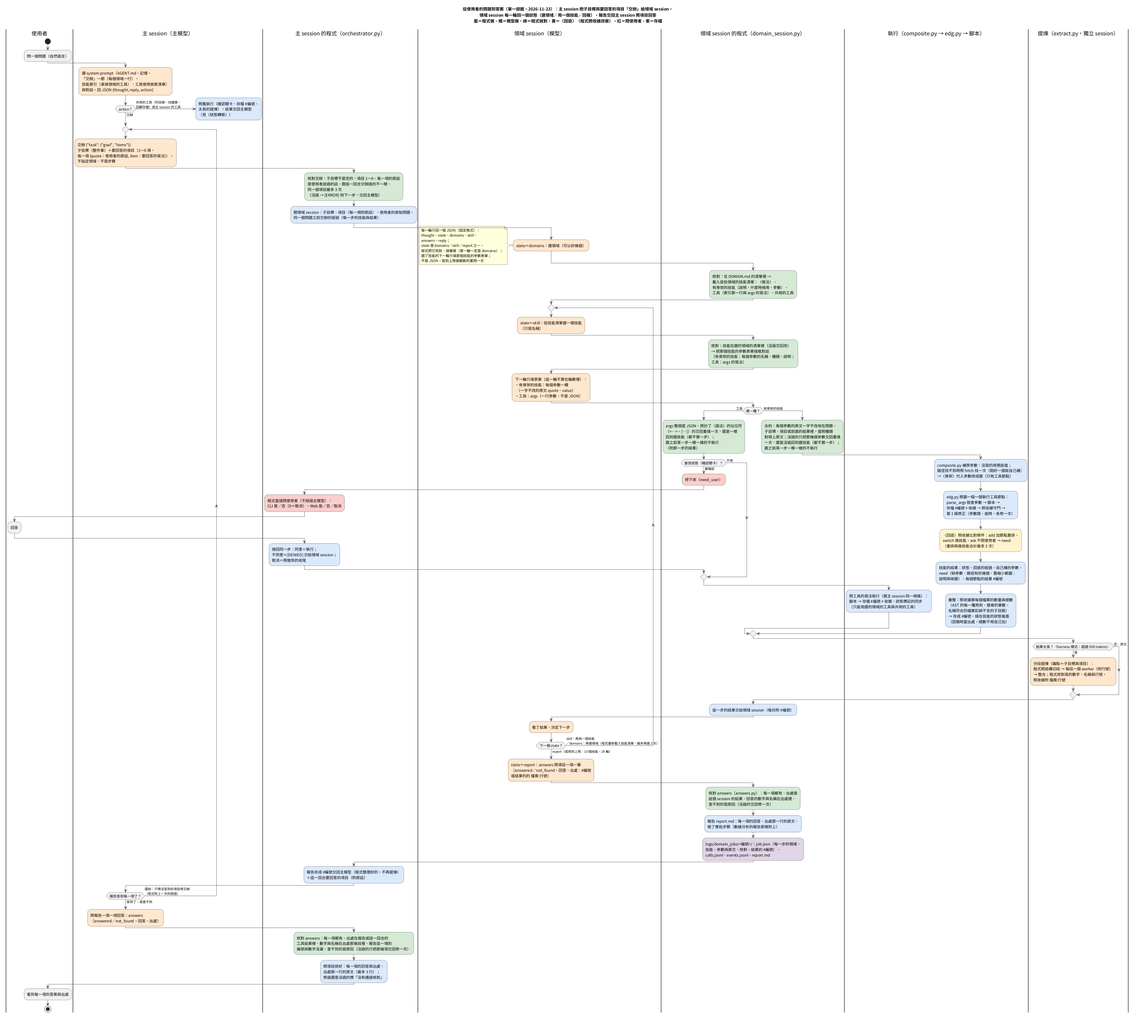
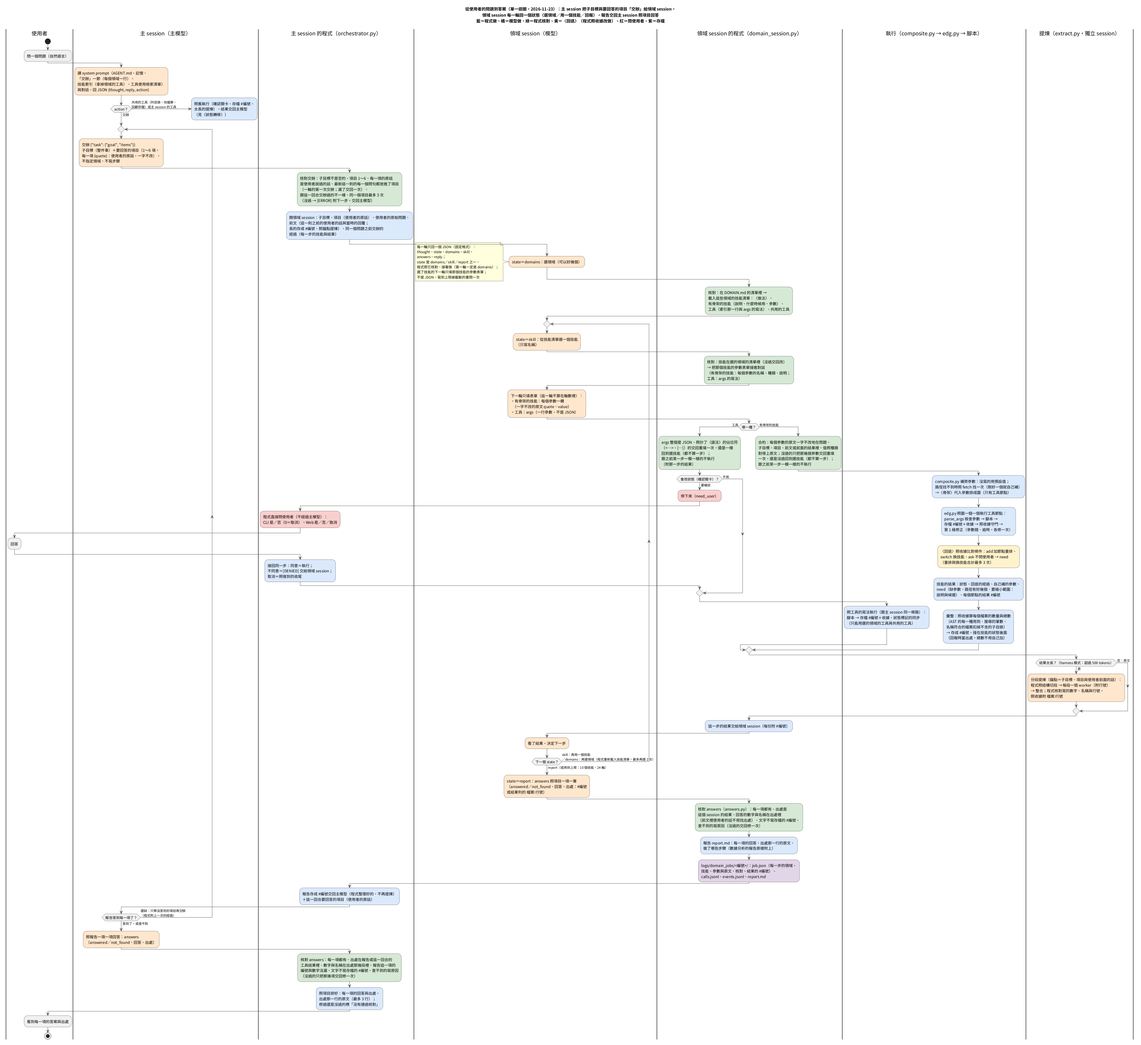
Add documentation updates for the 28th and 29th rounds of discussions, including user feedback and proposed changes regarding the handling of context in task assignments and the separation of declaration and definition in cpp_symbol. Update test results and clarify issues encountered during implemen

diff --git a/doc/架構說明.md b/doc/架構說明.md
@@ -36,7 +36,7 @@
 - **一次性獨立 session**：自己的 system／user prompt、不碰主對話、做完即丟（見第 7 節）；工具回傳的提煉是其中一種，長的輸出分給好幾個 worker 再整合。
 - **視覺 `vision/`**（Web 附圖）：框選螢幕或上傳的影像只存在這裡；送出新任務時交給視覺 session 做結構化提取（文字 → 畫面 → 個體 → 背景、線索、重點），主對話只收到以 `[vision result]` 併進那則使用者訊息的文字，分析同時存成 `#編號`、以〔附圖分析〕記進檢索清單，之後跟工具回傳一樣可以 `result_recall`（見 3.7）。`image_inspect` 技能對影像檔路徑呼叫同一個 `vision.analyze()`，結果照一般工具回傳處理。
 - **技能系統 `skills_system/`**：索引（`SKILLS.md`，常駐）→ 規格（`tools/<name>.md`，按需載入）→ 腳本（`scripts/<name>_cmd.py`，真正執行）。沒有「技能名稱 → 腳本」的對照表：模型必須先載入規格、讀到真實的腳本路徑才執行得了。領域在 `skills_system/<領域>/`（領域的說明、〈做法〉、有骨架的技能與工具的清單，領域 session 讀；第 16 節），領域的清單與主 session、領域 session 都直接用的共用的工具在 `skills_system/DOMAIN.md`（第 17 節）。
-- **交辦與領域 session**（`orchestrator.py`、`domain_session.py`、`skills_system/DOMAIN.md`）：找檔案、讀文件與 log、分析程式（`repo_analysis`），以及凍結的工具登記成的四個領域（容器與 ROS 2、調度系統、錄製的數據、音檔與影像檔）的事，主 session 在 `action` 填「交辦」——子目標與要回答的項目（每一項附使用者的原話，程式核對是使用者說過的話），不指定領域——程式核對之後交給**領域 session**：自己的對話，每一輪回一個 JSON，狀態是選領域（程式列出那些領域的技能清單）、用一個技能（只寫名稱，下一輪填程式給的參數表單；有骨架的技能由程式照骨架與回退執行，第 16 節；單步的工具跟主對話同一條路執行）或回報（每一項附出處、程式核對）三種之一；技能的結果太長照舊分段提煉；程式管上限、擋一模一樣的技能＋參數，全部存檔。報告存成 `#編號` 交回主 session，主 session 照報告一項一項回答（程式核對出處與數字、報告這一項的編號與數字沒有漏掉，照項目排給使用者，每一項附出處那一行的原文）；沒答到的可以只帶那幾項再交辦，程式把之前幾次的經過一起交下去；領域 session 碰到確認關卡時程式直接問使用者、接回同一步，不經過主 session。領域的工具與有骨架的技能不給主 session 直接用（第 17 節）。
+- **交辦與領域 session**（`orchestrator.py`、`domain_session.py`、`skills_system/DOMAIN.md`）：找檔案、讀文件與 log、分析程式（`repo_analysis`），以及凍結的工具登記成的四個領域（容器與 ROS 2、調度系統、錄製的數據、音檔與影像檔）的事，主 session 在 `action` 填「交辦」——子目標與要回答的項目（每一項是使用者的原話，程式核對是使用者說過的話、最新這一則的問句都放進了項目），不指定領域——程式核對之後連同這一則之前的對話（前文）交給**領域 session**：自己的對話，每一輪回一個 JSON，狀態是選領域（程式列出那些領域的技能清單）、用一個技能（只寫名稱，下一輪填程式給的參數表單；有骨架的技能由程式照骨架與回退執行，第 16 節；單步的工具跟主對話同一條路執行）或回報（每一項附出處、程式核對）三種之一；技能的結果太長照舊分段提煉；程式管上限、擋一模一樣的技能＋參數，全部存檔。報告存成 `#編號` 交回主 session，主 session 照報告一項一項回答（程式核對出處與數字、報告這一項的編號與數字沒有漏掉，照項目排給使用者，每一項附出處那一行的原文）；沒答到的可以只帶那幾項再交辦，程式把之前幾次的經過一起交下去；領域 session 碰到確認關卡時程式直接問使用者、接回同一步，不經過主 session。領域的工具與有骨架的技能不給主 session 直接用（第 17 節）。
 - **`logs/`**：每次工具回傳的原文存檔、工具使用檢索清單、操作軌跡、滾動摘要歸檔、每次模型呼叫的耗時、領域 session 與低階執行器的工作（見第 8 節）。
 - **執行前關卡**（`guard.py`）：會改變實體／外部狀態的技能（派工單、取消任務、建容器、容器內非唯讀指令），執行前一律由程式要求使用者確認，任何模式都一樣。
 - **數據分析**（`analysis_job.py`，`analysis_run` 偽技能，全部由程式做）：程式在容器裡量全部 Topic 的全部 Key（字串裡的 JSON 也展開），整理成有編號的事實（T#＝Topic、E#＝事件、L#＝Log；類別、時間線、時間上的對照）與重點，只做事實報告、不判斷原因；主對話依報告回答（見第 13 節）。
@@ -114,7 +114,7 @@
 | 檔案的行號 | `_results_common.file_lines`、`ToolSummaryMixin._file_lines`、`Extraction._at` | 照存檔的收據把原文的每一行對到檔案（view_file、search_text 每一行的 `N→` 是檔案的行號，提煉再加一層存檔的行號，模型會搞混）：收據只有一個檔案就是它，好幾個就是上面最近一行寫到的那一個（長的路徑先比）；只認收據裡的絕對路徑（result_grep 記的是存檔編號）。交給整合與交給主對話的事實都附「行 149＝<檔案>:49」（〈設計筆記〉2.56） |
 | 存檔 | `JobStore`（`jobstore.py`） | `logs/extract_jobs/<編號>/`：`job.json`、`calls.jsonl`（每次呼叫的 prompt 與回覆）、`events.jsonl`（進度，開頭 📑） |
 | 驗證 | `_validate_related` | related_records 只留清單裡真的有的編號，最多 2 筆 |
-| 寫清單 | `_append_tool_use_index`、`tidy_hint` | 只有原始工具的結果才寫一行進 `tools_use_index.md`（`result_*` 這類衍生輸出不寫）；描述整句照存、**不截斷** |
+| 寫清單 | `_append_tool_use_index`、`tidy_hint` | 只有原始工具的結果才寫一行進 `tools_use_index.md`（`result_*` 與交辦的前文 `dispatch_context` 這類衍生的輸出不寫，`DERIVED_RESULT_SCRIPTS`）；描述整句照存、**不截斷** |
 | 排版 | `_render_tool_summary`、`_followup_guidance` | 回答／相關事實（附行號，對得到檔案的接著寫 `＝檔案:行號`）／錯誤／未涵蓋／還需要的舊存檔／之後可能想知道的，結尾附下一步建議；回答把存檔的行號寫成檔案的行號、修一次還是一樣的，標「程式核對：回答寫的「第 149 行」是存檔原文的行號，那一行在檔案裡是 …」 |
 
 下一步建議（`_followup_guidance`）依序判斷：
@@ -415,7 +415,7 @@ Ollama 只重用跟上一次請求相同的開頭，從第一個不同的 token 
 | `NUM_CTX` | 32768 | `AGENT_NUM_CTX` | 每次請求的 context 上限，所有 session 共用 |
 | `TOKEN_THRESHOLD`／`SOFT_TOKEN_THRESHOLD` | NUM_CTX×0.75／×0.60 | `AGENT_HARD_RATIO`／`AGENT_SOFT_RATIO` | 硬水位（呼叫前一定壓）／軟水位（回合結束後壓） |
 | `KEEP_RECENT_TOKENS` | NUM_CTX×0.15 | — | 壓縮時保留最新這麼多 token 的原文 |
-| `TOOL_RESULT_TOKEN_THRESHOLD` | 500 | — | 工具回傳超過就交給提煉 |
+| `TOOL_RESULT_TOKEN_THRESHOLD` | 500 | — | 工具回傳超過就交給提煉；交辦的前文超過也存成一份存檔、照錨點提煉（第 17 節） |
 | `TOOL_SUMMARY_DEFAULT` | 開 | `AGENT_TOOL_SUMMARY` | `/summarize` 的啟動值 |
 | `EXTRACT_CHUNK_CHARS` | 8000 | `AGENT_EXTRACT_CHUNK_CHARS` | 提煉每段最多幾個字（放得進一段的就是一段、一個 worker） |
 | `EXTRACT_MAX_CHUNKS` | 8 | `AGENT_EXTRACT_MAX_CHUNKS` | 一次提煉最多讀幾段（更長的依問題挑段落，沒讀的行號寫進未涵蓋） |
@@ -489,8 +489,8 @@ Ollama 只重用跟上一次請求相同的開頭，從第一個不同的 token 
 | 寫新技能的腳本與規格 | `doc/技能撰寫規範.md`（輸出的結構、[ERROR] 的下一步、不讀標準輸入、逾時、狀態標記放最後）；測試放 `evals/skills/<組>_test.py` |
 | 改低階執行器（圖的檢查、守門、第 1 級的核對、重排、存檔） | `agent_core/edg.py`（第 15 節）；修正的說法在 `prompts/edg/`；測試 `evals/edg/selftest.py`，真模型 `evals/edg/run.py` |
 | 改有骨架的技能的執行（合約的核對、補參數、排圖、回退、換技能、交回決定的事、結果） | `agent_core/composite.py`（第 16 節；合約 `verify_param`、`unmentioned`、`relative`、`own_quote`、範圍 `scope_param`、`scope_items`、`Runner.count`，照原文找要讀的那一份 `path_of`、`Runner.find`，執行 `Runner`：`_complete`、`_fetch`、`_after`、`_switch`、`_subdirs`、`_outputs`，彙整 `_totals`）；交給領域 session 的寫法在 `domain_session.py` 的 `_composite`、`_totals`；說法在 `prompts/domain/session.md` 的 `reject_*`、`need_*`、`composite_*`；測試 `evals/domain/selftest.py`，真模型 `evals/repo/run.py` |
-| 改交辦（核對、交回的文字、擋哪些工具與有骨架的技能、確認關卡的接回、依報告回答的核對與照項目排、再交辦時的經過） | `agent_core/orchestrator.py`（第 17 節；`run_task`、`_check_task`、`_previous`、`_task_finish`；擋在 `domain_gate`；接回在 `answer_domain`、`cancel_domain`；answers 的核對在 `_answer_problems`、`_cited`，每一項怎麼核對在 `answers.py` 的 `answer_problems`（領域 session 的回報也用），排版在 `domain_render`）；領域與共用的工具在 `skills_system/DOMAIN.md`；說法在 `prompts/harness/domain.md`（交回的 `report`、`answer_hint`、`ask_waiting`；擋 `tool_blocked`、`skill_blocked`；交辦沒過核對的 `err_*`；answers 的 `answers_fix`、`why_*`）與 `system_prompt.md` 的 `tasks`、`task_domain`；Web 的接回在 `web_app/flows.py`（`_await_domain`、`answer_domain_turn`）、`server.py`、`index.html`，CLI 在 `cli.py`；測試 `evals/domain/selftest.py`，真模型 `evals/repo/run.py`，`chat/`、`ops/` 看有沒有退步 |
-| 改領域 session（狀態與上限、選領域、技能清單、參數表單、合約、工具的執行、擋一樣的、回報的核對、報告） | `agent_core/domain_session.py`（第 17 節；`_loop`、`_domains`、`_skills_text`（工具的 args 寫法 `_tool_entries`、`_syntax`）、`_skill`、`_form_turn`、`_param_rows`、`_contract`（範圍 `_scope_hits`、`_count`；照原文找要讀的那一份 `_doc_of`、`_find`）、`_own_args`、`_args_problem`、`_same`、`_tool`、`_composite`、`_totals`、`_shown`、`_report_state`、`_problems`、`_report`、`_ask`、`_fit`）；schema 在 `schemas.domain_session_schema`（每一輪的決定）與 `domain_form_schema`（參數表單）；說法在 `prompts/domain/session.md`；上限在 `config.py` 的 `DOMAIN_*`；測試 `evals/domain/selftest.py`，真模型 `evals/repo/run.py` |
+| 改交辦（核對、前文、交回的文字、擋哪些工具與有骨架的技能、確認關卡的接回、依報告回答的核對與照項目排、再交辦時的經過） | `agent_core/orchestrator.py`（第 17 節；`run_task`、`_check_task`（問句都放進項目 `questions`、`_uncovered`）、`_earlier_turns`（前文）、`_previous`、`_task_finish`；擋在 `domain_gate`；接回在 `answer_domain`、`cancel_domain`；answers 的核對在 `_answer_problems`、`_cited`，每一項怎麼核對在 `answers.py` 的 `answer_problems`（領域 session 的回報也用），排版在 `domain_render`）；領域與共用的工具在 `skills_system/DOMAIN.md`；說法在 `prompts/harness/domain.md`（交回的 `report`、`answer_hint`、`ask_waiting`；擋 `tool_blocked`、`skill_blocked`；交辦沒過核對的 `err_*`；answers 的 `answers_fix`、`why_*`）與 `system_prompt.md` 的 `tasks`、`task_domain`；Web 的接回在 `web_app/flows.py`（`_await_domain`、`answer_domain_turn`）、`server.py`、`index.html`，CLI 在 `cli.py`；測試 `evals/domain/selftest.py`，真模型 `evals/repo/run.py`，`chat/`、`ops/` 看有沒有退步 |
+| 改領域 session（第一則訊息與前文、狀態與上限、選領域、技能清單、參數表單、合約、工具的執行、擋一樣的、回報的核對、報告） | `agent_core/domain_session.py`（第 17 節；`_loop`、`_domains`、`_skills_text`（工具的 args 寫法 `_tool_entries`、`_syntax`）、`_skill`、`_form_turn`、`_param_rows`、`_contract`（範圍 `_scope_hits`、`_count`；照原文找要讀的那一份 `_doc_of`、`_find`）、`_own_args`、`_args_problem`、`_same`、`_tool`、`_composite`、`_totals`、`_shown`、`_report_state`、`_problems`（前文裡使用者的話不用找出處，`_allowed`）、`_report`、`_ask`、`_fit`；前文 `_context`、提煉的錨點 `_anchor`）；schema 在 `schemas.domain_session_schema`（每一輪的決定）與 `domain_form_schema`（參數表單）；說法在 `prompts/domain/session.md`；上限在 `config.py` 的 `DOMAIN_*`；測試 `evals/domain/selftest.py`，真模型 `evals/repo/run.py` |
 | 新增或改有骨架的技能、領域 | `skills_system/<領域>/SKILLS.md` 一行＋`<領域>/<名稱>.md`（寫法：`doc/技能撰寫規範.md` 1.2：〈骨架〉只有工具節點、〈回退〉的加節點、換技能與交回決定；載入時 `composite.validate_skill`、`_switch_problems` 檢查，寫錯的整個領域不能用；`evals/domain/selftest.py` 跑 repo_analysis 的技能與回退） |
 | 改收據的欄位、錯誤的種類 | 共用層 `skills_system/scripts/_receipt_common.py`、各腳本的 `fail`／`result`、規格的 `receipt`（`evals/skills/receipt_test.py` 核對兩者一致）；harness 這一側在 `dispatch.py` 的 `_exec_script`、`archive.py`、`trajectory.py`（3.8） |
 | 改檢索清單的顯示或判斷規則 | `tool_use_index.py` 的 `_tool_use_index_block` |
@@ -527,7 +527,7 @@ Ollama 只重用跟上一次請求相同的開頭，從第一個不同的 token 
 | `extract/` 提煉 | —（在 `chat/extract_selftest.py`） | `run.py`（已知答案的長輸出：車隊、20 萬字 Log、recall） | 找到幾個、多列幾個、數量、切段 |
 | `repo/` 真實專案 | `selftest.py`（核對的規則、每一題答得出來、人看過的真實回覆維持判斷、`answers.json` 跟快照一致、碰不到真的容器；在 `phase_check` 的離線組） | `run.py`（amr_base 固定在 `6d91797a` 的快照，30 題：五種各 5＋保留組 1；借用 `ops/worker.py` 跑一題，確認關卡一律拒絕、Docker 與調度系統的位址指走；`--rescore` 用存下來的回覆重新計分） | 在真實專案裡找檔案與計數、讀長文件、Python 的定義與呼叫、C++、跨檔案的調查；答案由程式從快照算（`questions.py` → `answers.json`），最後的回覆由程式核對（`checks.py`）。在 `phase_check --model`：每個模型各跑 3 次（`--tag phase1～3`），每一題的通過率與主要組每一次的通過數跟基準 `repo.json` 比；`runs.jsonl` 另記每一次依報告回答的 answers、沒過核對的項目與交回修的次數 |
 | `edg/` 低階執行器 | `selftest.py`（寫好的圖、假的修正模型：檢查圖（只收工具節點）、照收據守門、帶入參數（去重、上限）、第 1 級的核對（多了引號、範圍放大、相近的路徑有好幾個不修、逾時照 narrow）、確認關卡停下來與接回、重排、存檔；14 項；在 `phase_check` 的離線組） | `run.py`（第 1 級修正：一個工具節點故意錯一個參數，工作目錄是真實專案評測的快照；9 題＋保留組 2 題；`--rescore`；在 `phase_check --model`，基準 `edg.json`） | 修得好的有沒有修好（收據的欄位與範圍由程式核對）、修不好的（要換工具、要使用者決定）有沒有往上交 |
-| `domain/` 交辦與領域 session | `selftest.py`（假的主模型與領域 session 的模型、真的有骨架的技能、低階執行器與工具（工作目錄是臨時的小專案），直接驅動 Web 的回合；23 項；在 `phase_check` 的離線組） | —（真模型看 `repo/run.py`；`chat/`、`ops/` 看有沒有退步） | 主 session 的「交辦」一節、技能索引拿掉領域的工具、回覆的 schema（沒有領域時沒有交辦）與解析；回覆的欄位順序（主 session 的 action 最後、AGENT.md 的範例與存回對話的 JSON 也一樣；領域 session 照說明的順序）；擋領域的工具與有骨架的技能（領域 session 裡只能用選的領域的工具與共用的工具）；交辦的核對（子目標是空的、項目數、一樣的再交一次、同一個項目最多 3 次）；領域 session 用工具（選領域、技能清單與 args 的寫法、args 開頭照抄的工具名稱拿掉、存檔 #編號、回報、報告交回、主 session 照項目回答）；評測的記法（`domain_calls`）；有骨架的技能（合約沒過交回改、不算一步，照骨架執行，一模一樣的不執行，回退換技能，路徑有好幾個交回決定，0 筆照實交回）；參數表單（選了技能的下一輪填：有骨架的技能每個參數一欄、工具只有 args；沒過的只把那幾個交回重填，重填還是沒過回到選技能；空的與預設值當成沒提到、沒抄原文的別的值退回，路徑的預設值配寫著別的名稱的 quote 交回、「..」的路徑交回；開頭抄了程式的標題的拿掉再核對；照 quote 沒過的拿值本身再核對（值在原文裡就收，編的檔名、翻譯、原文沒有的值照舊退回）；原文沒有的搜尋字，要搜的範圍裡有才收（出處寫範圍；範圍裡沒有的、自己選的檔名寫法照舊退回）；工作目錄底下的絕對路徑換成相對的；搜尋的字不分大小寫（骨架加 `--case` 的擋下）；表單那一輪不算在輪數裡；工具的 args 整個寫成 JSON、照抄了〈語法〉的佔位符、可以不寫的部分填成「[]」的交回重填一次，搜尋字裡的中括號、引號裡的「[]」不誤擋）；程式照收據算的彙整（AST 的定義、呼叫與 import 每個檔案幾處、總共幾處；名稱符合的檔案扣掉不含的子目錄；存成 #編號，回報的總數照它寫就過核對）；狀態與上限（還沒選領域、回覆不是 JSON、重選領域的上限、技能的上限）；確認關卡（停下來、Web 轉問、不同意交給它接著做）；長的結果照舊提煉（錨點是交辦的子目標）；再交辦帶著上一次的經過；交辦的原話（不是使用者說過的話擋下；第一則訊息、報告、回答提示、錨點附原話；追問時抄前一則訊息的也過）；主 session 依報告回答的核對與完整性（報告寫的編號與數字，回答漏了交回修） |
+| `domain/` 交辦與領域 session | `selftest.py`（假的主模型與領域 session 的模型、真的有骨架的技能、低階執行器與工具（工作目錄是臨時的小專案），直接驅動 Web 的回合，每一項從新的對話開始；28 項；在 `phase_check` 的離線組） | —（真模型看 `repo/run.py`；`chat/`、`ops/` 看有沒有退步） | 主 session 的「交辦」一節、技能索引拿掉領域的工具、回覆的 schema（沒有領域時沒有交辦）與解析；回覆的欄位順序（主 session 的 action 最後、AGENT.md 的範例與存回對話的 JSON 也一樣；領域 session 照說明的順序）；擋領域的工具與有骨架的技能（領域 session 裡只能用選的領域的工具與共用的工具）；交辦的核對（子目標是空的、項目數、一樣的再交一次、同一個項目最多 3 次）；領域 session 用工具（選領域、技能清單與 args 的寫法、args 開頭照抄的工具名稱拿掉、存檔 #編號、回報、報告交回、主 session 照項目回答）；評測的記法（`domain_calls`）；有骨架的技能（合約沒過交回改、不算一步，照骨架執行，一模一樣的不執行，回退換技能，路徑有好幾個交回決定，0 筆照實交回）；參數表單（選了技能的下一輪填：有骨架的技能每個參數一欄、工具只有 args；沒過的只把那幾個交回重填，重填還是沒過回到選技能；空的與預設值當成沒提到、沒抄原文的別的值退回，路徑的預設值配寫著別的名稱的 quote 交回、「..」的路徑交回；開頭抄了程式的標題的拿掉再核對；照 quote 沒過的拿值本身再核對（值在原文裡就收，編的檔名、翻譯、原文沒有的值照舊退回）；原文沒有的搜尋字，要搜的範圍裡有才收（出處寫範圍；範圍裡沒有的、自己選的檔名寫法照舊退回）；工作目錄底下的絕對路徑換成相對的；搜尋的字不分大小寫（骨架加 `--case` 的擋下）；表單那一輪不算在輪數裡；工具的 args 整個寫成 JSON、照抄了〈語法〉的佔位符、可以不寫的部分填成「[]」的交回重填一次，搜尋字裡的中括號、引號裡的「[]」不誤擋）；程式照收據算的彙整（AST 的定義、呼叫與 import 每個檔案幾處、總共幾處；名稱符合的檔案扣掉不含的子目錄；存成 #編號，回報的總數照它寫就過核對）；狀態與上限（還沒選領域、回覆不是 JSON、重選領域的上限、技能的上限）；確認關卡（停下來、Web 轉問、不同意交給它接著做）；長的結果照舊提煉（錨點是交辦的子目標）；再交辦帶著上一次的經過；交辦的原話（不是使用者說過的話擋下；第一則訊息、報告、回答提示、錨點附原話；追問時抄前一則訊息的也過）；主 session 依報告回答的核對與完整性（報告寫的編號與數字，回答漏了交回修）；回答的文字寫了存檔的 #編號交回修（回報與主 session 的回答）；問句都要放進項目（一輪的第一次交辦漏了交回一次，之後不核對）；交辦帶前文（短的照原文附、長的存檔照錨點提煉；前文裡使用者的話算可以抄的原文） |
 | `integrity/` 評測的完整性 | `selftest.py` | — | 模型會讀的文字（技能規格、SKILLS.md、prompts、程式回給模型的字）沒有評測世界的名稱（從評測的來源自動取）；`prompts/` 的範本跟程式對得上（用到的每一則都在、填的名稱都有、沒有沒人用的）；讀範本；沒人用的程式（定義了沒人用的函式、類別、常數，import 了沒用的）；文件與架構圖寫的程式名稱在程式裡找得到（`doc_refs`，例外列在 `DOC_ALLOWED`）；階段驗證的維運比對（只跑一部分時跟同一組情境比） |
 
 主對話的情境：外部世界（docker、ROS2、調度系統）用固定的假輸出，存檔工具、`modify_memory` 與本機檔案類技能真的執行；條件（`expect`）
@@ -917,21 +917,21 @@ session 決定）、`guard_in_skill`、`composite_*`（彙整 `composite_totals`
 
 ## 17. 交辦與領域 session（`agent_core/orchestrator.py`、`domain_session.py`、`skills_system/DOMAIN.md`）
 
-要用領域的技能的事，主 session 在回覆的 `action` 填「交辦」——子目標與要回答的項目（每一項附使用者的原話），不指定領域（F1）。程式核對之後交給領域 session：一個自己的
+要用領域的技能的事，主 session 在回覆的 `action` 填「交辦」——子目標與要回答的項目（每一項是使用者的原話），不指定領域（F1）。程式核對之後連同前文（這一則之前的對話）交給領域 session：一個自己的
 對話，每一輪回一個 JSON，狀態是「選領域／用一個技能／回報」三種之一，由程式核對、照它接著做（F4）；技能的結果太長照舊分段提煉，看了結果再決定
 下一步；回報的每一項附出處、程式核對（F6）。報告存成 `#編號` 交回主 session，主 session 照報告一項一項回答（程式核對，報告這一項的編號與數字不能漏；照項目排給使用者）；沒答到的
 可以只帶那幾項再交辦，程式把之前幾次的經過一起交下去。領域 session 碰到確認關卡時程式直接問使用者、接回同一步，不經過主模型。為什麼、取捨與實測在
-〈設計筆記〉2.56（原話與完整性：2.61）；決定在〈[框架討論紀錄](../docs/框架討論紀錄.md)〉F1～F6。
+〈設計筆記〉2.56（原話與完整性：2.61；項目就是原話：2.75；問句與前文：2.76）；決定在〈[框架討論紀錄](../docs/框架討論紀錄.md)〉F1～F6。
 
 ```
-主 session ──交辦 {"task": {"goal", "items": [{"quote", "item"}]}}（核對：run_task，原話是使用者說過的話）──▶ 領域 session（domain_session.py）
-  第一則訊息的每一項附原話（意思以原話為準）；每一輪一個 JSON，state 是三種之一（程式核對、照它接著做）：
+主 session ──交辦 {"task": {"goal", "items": [{"quote"}]}}（核對：run_task，原話是使用者說過的話、最新這一則的問句都放進項目）──▶ 領域 session（domain_session.py）
+  第一則訊息：子目標、項目（使用者的原話）、原始問題、前文（這一則之前的對話，長的存檔提煉）；每一輪一個 JSON，state 是三種之一（程式核對、照它接著做）：
   domains：選領域 → 程式列出那些領域的技能清單（做法、有骨架的技能與參數、工具與 args 的寫法、共用的工具）
   skill  ：選一個技能（只寫名稱）→ 下一輪填它的參數表單（domain_form_schema；不算輪數）
            → 有骨架的技能：合約核對（沒過的重填一次）→ composite.Runner（補參數、骨架、回退）→ edg.Executor（守門、第 1 級）
                            → 程式照收據算的彙整（存成 #編號）
              單步的工具：args 的寫法核對（沒過的重填一次）→ agent._run_tool_once（確認關卡、存檔 #編號、收據）
-           → 結果太長分段提煉（錨點是子目標與項目）→ 接進對話，再選技能、再選領域或回報
+           → 結果太長分段提煉（錨點是子目標、項目與使用者前面的話）→ 接進對話，再選技能、再選領域或回報
   report ：answers 每一項附出處 → 程式核對（沒過交回修一次）→ 程式整理的報告
 主 session ◀──報告（#編號，不提煉）＋要回答的項目（附原話）── 照項目填 answers → 程式核對（出處、數字、報告的編號與數字沒漏；沒過交回修一次）
           → 照項目排給使用者
@@ -948,7 +948,7 @@ session 決定）、`guard_in_skill`、`composite_*`（彙整 `composite_totals`
 
 **主 session 看到的**：
 - system prompt 的「交辦」一節（`domain_block`；`prompts/harness/system_prompt.md` 的 `tasks`、`task_domain`）：哪些事交辦、格式、goal 照使用者的原話
-  寫整件事（不寫步驟、工具與參數）、items 是要回報的（1～`DOMAIN_ITEMS_MAX` 項，每一項 quote 一字不改地抄使用者的話、item 寫要回答的寫法；要它做事的寫要回報的結果）、收到報告之後怎麼填 answers（報告寫的編號與數字照寫）、沒答到的
+  寫整件事（不寫步驟、工具與參數）、items 是要回報的（1～`DOMAIN_ITEMS_MAX` 項，每一項 quote 一字不改地抄使用者的原話裡、這一項在問的那一段，之前幾則訊息裡的也可以：原話就是要回報的項目，不改寫、不只挑一部分，一句問了好幾件事可以照原話分成幾段；「它」這種指代對到的名稱寫在 goal 裡）、收到報告之後怎麼填 answers（報告寫的編號與數字照寫）、沒答到的
   只帶那幾項再交辦（同一個項目最多 `DOMAIN_ITEM_TRIES` 次）、Available Skills 列的可以直接用（要寫進檔案的結果等報告回來再寫）、打招呼與答案已經在
   對話裡的直接回答，加上每個領域一行（領域做什麼與說明的第一行；標題拿掉開頭的識別名稱，`composite.domain_label`）。
 - 主 session 看到的字都不寫領域的識別名稱（主 session 不指定領域；看得到名稱時 e4b 會把它當技能叫，設計筆記 2.64）：除了「交辦」一節，擋下的說明
@@ -965,8 +965,8 @@ session 決定）、`guard_in_skill`、`composite_*`（彙整 `composite_totals`
 | 步驟 | 誰 | 做什麼 |
 |---|---|---|
 | 1 交辦 | 主模型 | `action` 填 `{"task": {"goal", "items"}}`（每一項 `{quote}`：使用者的原話） |
-| 2 核對 | 程式（`run_task`、`_check_task`） | 有領域、子目標不是空的、項目 1～`DOMAIN_ITEMS_MAX` 項、每一項的原話（去掉引號、空白正規化）在使用者說過的話裡（`_user_words`：這段對話裡使用者的每一則訊息與目前的任務；`err_quote`）、子目標與項目跟這一回合交辦過的不一樣（一樣的再交一次結果也一樣）、每一項這一回合交辦還不到 `DOMAIN_ITEM_TRIES` 次（照文字比，不看空白與大小寫；擋下來時附那幾次的子目標與結果）。沒過回 `[ERROR]`（附下一步），不執行 |
-| 3 領域 session | 程式與領域 session 的模型（`DomainSession.start`） | 記一筆交辦的紀錄（`_domain_turn["tasks"]`）；第一則訊息是子目標、項目（每一項附原話）、使用者的原始問題、這一回合之前交辦的經過（`_previous`）；之後一輪一輪做（下面），停在確認關卡或收尾 |
+| 2 核對 | 程式（`run_task`、`_check_task`） | 有領域、子目標不是空的、項目 1～`DOMAIN_ITEMS_MAX` 項、每一項的原話（去掉引號、空白正規化）在使用者說過的話裡（`_user_words`：這段對話裡使用者的每一則訊息與目前的任務；`err_quote`）、一輪的第一次交辦時最新這一則的每一個問句（`questions`：「？」，或後面是空白、結尾的「?」）都跟某一項的原話重疊（`_uncovered`；沒有的列出來交回一次 `err_cover`，交回過照收，之後的交辦不核對）、子目標與項目跟這一回合交辦過的不一樣（一樣的再交一次結果也一樣）、每一項這一回合交辦還不到 `DOMAIN_ITEM_TRIES` 次（照文字比，不看空白與大小寫；擋下來時附那幾次的子目標與結果）。沒過回 `[ERROR]`（附下一步），不執行 |
+| 3 領域 session | 程式與領域 session 的模型（`DomainSession.start`） | 記一筆交辦的紀錄（`_domain_turn["tasks"]`）；第一則訊息是子目標、項目（使用者的原話）、使用者的原始問題、前文（`_earlier_turns`：任務線上這一則之前的使用者的話，與各自那一回合最後的回覆）、這一回合之前交辦的經過（`_previous`）；之後一輪一輪做（下面），停在確認關卡或收尾 |
 | 4 確認關卡 | 程式 | 領域 session 要用會改狀態的工具：停下來（`need_user`），設 `domain_pending`（交回的文字是等回答的說明 `ask_waiting`）；CLI 印要確認的事、`input()`，Web 推 `domain_ask`（藍色卡片、是／否按鈕、取消）。回答由 `answer_domain` 交給 `resume`（「是」「好」「y」這類照做；其他回答不做，`[DENIED]` 交給領域 session 接著做），還有下一個確認關卡就再問；取消（CLI 輸入 0、Web 的取消、`/clear`）由 `cancel_domain` 照做到的收尾（`/clear` 只照實記下，`follow=False`） |
 | 5 交回 | 程式（`_task_finish`） | 報告存成 `#編號`（腳本欄 `domain_task`）；交回主模型的文字是 `DOMAIN_RESULT_HEAD` 開頭（不提煉）的交辦的報告（`report`：狀態與報告全文），後面接「這一回合要回答的項目」（使用者的原話）與 answers 的寫法（`answer_hint`）；記下領域 session 回報、核對過的項目與回答（`answered_items`，完整性的核對用）；領域 session 裡執行的數據分析的報告登記給 `analysis_reply_check`（`note_analysis_report`） |
 | 6 回答 | 主模型 | 照報告填 `answers`，`reply` 寫一句總結；報告沒答到的項目可以只帶那幾項再交辦（回到步驟 1；要不要再交辦是主模型決定，程式不自己再交） |
@@ -975,11 +975,13 @@ session 決定）、`guard_in_skill`、`composite_*`（彙整 `composite_totals`
 
 **領域 session**（`DomainSession`；說法在 `prompts/domain/session.md`）：
 - system prompt（`system`）：要做的事；每一輪只回一個 JSON（thought、state、domains、skill、answers、reply；用不到的寫空的；選了技能的下一輪填參數表單）與三種狀態
-  的寫法；怎麼做（只做子目標、回答項目——每一項的意思以附的原話為準，項目寫得比原話窄時照原話回答；原始問題只用來對照名稱、路徑、數值；先用最能直接回答的技能，不夠就照結果裡的名稱、檔案、行號換一個技能
+  的寫法；怎麼做（只做子目標、回答項目——每一項是從原始問題切出來的原話，意思照原始問題的前後文與前文讀：「它」這種指代、沒寫主詞的追問指的是前面說過的那個，前文只用來看指的是什麼、答案用這次查到的結果；子目標與原始問題也用來對照名稱、路徑、數值；先用最能直接回答的技能，不夠就照結果裡的名稱、檔案、行號換一個技能
   或參數；0 筆時想想是範圍、字還是技能不對；能回答每一項就回報；現在的狀態用技能重新查；使用者說只要查就只用查詢的技能）；〈領域〉每個一行
   （`domain_entry`：名稱、標題、說明）；長期記憶。
-- 第一則訊息（`first`）：【子目標】、【要回答的項目】（每一項是使用者的原話）、【使用者的原始問題】（主 session 的 `current_task`）、再交辦的加上【上一次的經過】（`previous`：
-  每一次用了哪些技能、結果、停下來的原因，程式從紀錄取）；最後一句要它先選領域。
+- 第一則訊息（`first`）：【子目標】、【要回答的項目】（每一項是使用者的原話）、【使用者的原始問題】（主 session 的 `current_task`；標明項目是從這一則切出來的、照它的前後文讀）、有前文時加上【前文】（`_context`：在 `TOOL_RESULT_TOKEN_THRESHOLD` 以內
+  照原文附，每一則寫使用者的話與當時的回覆（`context`、`context_turn`）；超過的存成一份存檔（腳本欄 `dispatch_context`，衍生的輸出、不寫進檢索清單）、照錨點
+  提煉，附提煉的結果與 `#編號`（`context_archived`））、再交辦的加上【上一次的經過】（`previous`：每一次用了哪些技能、結果、停下來的原因，程式從紀錄取）；
+  最後一句要它先選領域。前文的全文也算參數表單可以抄的原文（`sources`）。
 - 每一輪（`_loop`）：模型一次（`_ask`：`format=domain_session_schema(領域, 項目數)`，`DOMAIN_MODEL`（空＝主模型），`think=False`；最後一則接動態區
   `build_state_tail`）；選了技能的下一輪是那個技能的表單（`_form_turn`：`format=domain_form_schema(參數名稱)`）。不是 JSON、空的、或 state 不是
   三種之一：附上那一則與提醒（`retry`；表單是 `retry_form`）再問一次；寫到字串上限被截斷（thought、args、reply）：不執行，接提醒（`cut`）再問一次；
@@ -1007,13 +1009,13 @@ session 決定）、`guard_in_skill`、`composite_*`（彙整 `composite_totals`
      「[]」不算佔位符）。
      程式照技能名稱找腳本（`skill_spec.script`）直接執行，不用先載入規格：先過確認關卡（`guard_check`；要確認時 `_wait`），再走主對話的 `_run_tool_once`（`_tool`：存檔
      `#編號`、收據、狀態標記的同步；`agent._sub_allowed` 只放行選的領域的工具與共用的工具）。結果照主對話的路（`turn._content_for_context(sub=True)`）：
-     門檻內原文，太長的提煉，錨點是交辦的子目標與項目（項目是使用者的原話；`_anchor`），事實附 `檔案:行號`，下一步建議只寫它能用的 `result_grep`、`result_view`（3.1）。
+     門檻內原文，太長的提煉，錨點是交辦的子目標與項目（項目是使用者的原話；有前文時加上使用者前面的話 `anchor_earlier`；`_anchor`），事實附 `檔案:行號`，下一步建議只寫它能用的 `result_grep`、`result_view`（3.1）。
      提煉開不開照 `TOOL_SUMMARY_DEFAULT`（環境變數 `AGENT_TOOL_SUMMARY`），不跟 CLI／Web 的 `/summarize off`（那是主對話各自的開關）。
    - 跟之前某一步一模一樣的技能＋參數（有骨架的技能比參數、工具比 args）不執行，交給它那一步的結果（`_same`，`err_same`）。
    - 每一步的結果開頭標第幾步、技能與參數（`step_head`）與存檔的 `#編號`（`result_id`），以 `[tool result]` 接進對話，也接進合約的原文（`sources`）。
 3. **report（回報）**：answers 照項目一項一筆（空的擋下：`err_empty_report`）。程式核對（`_problems`，用 `answers.answer_problems`，跟主 session 依報告
    回答同一套）：每一項都有；答到的有出處，出處是這個 session 的存檔 `#編號`，或那些存檔的收據裡的 `檔案:行號`（`_cited`：那一行由程式從檔案讀，
-   `answers.rows_from_archives`）；回答裡的數字與名稱在出處的原文裡（內文寫的 `檔案:行號` 也照收據核對、清單的序號不核對）；查不到的寫了原因。沒過的
+   `answers.rows_from_archives`）；回答裡的數字與名稱在出處的原文裡（內文寫的 `檔案:行號` 也照收據核對、清單的序號不核對；問題、子目標、項目與前文裡使用者的話本來就有的字不核對，`_allowed`——當時的回覆不算）；答到的回答的文字沒寫存檔的 `#編號`（`why_archive_id`）；查不到的寫了原因。沒過的
    交回修一次（`answers_fix`，`nudged`），之後收尾（`done`），還是沒過的在報告裡標出來。
 
 **報告**（`_report`，`report.md`）：狀態、問題、子目標、要回答的項目（附使用者的原話）、第幾次交辦與之前的結果、選的領域與用了幾個技能、說明（停下來的原因）、總結；
@@ -1037,6 +1039,8 @@ session 決定）、`guard_in_skill`、`composite_*`（彙整 `composite_totals`
 - 報告這一項寫的編號（有英文字母、最後一段有數字的 ID）與數字（照 `extract.missing_tokens` 的規則：10 以下的整數、行號、`檔案:行號`、序號、問題與項目裡
   本來就有的不看），回答裡要有（`answers.dropped`；報告的這一項＝領域 session 回報、核對過的那一筆，`domain_session.answered_items`，同一個項目以最後
   一次交辦為準；`why_dropped`）；名稱先不核對。
+- 答到的回答的文字寫了存檔的 `#編號`（`_ARCHIVE_ID`；問題、項目、子目標裡本來就有的不算）：交回（`why_archive_id`：#編號是系統的存檔編號，只寫在 refs；
+  領域 session 的回報也一樣，框架討論紀錄第 27 輪）。
 - 回答的內文寫的 `檔案:行號` 跟出處一樣照收據核對（`answers._located`）：對到的從內文拿掉，那幾段與行號加進核對的原文；對不到的留著、照舊當成名稱
   核對。內文只認英數字的路徑（`_TEXT_CITE`：「定義在<檔案>:3」不會連前面的中文當成路徑）。
 - `reply` 裡寫的 `檔案:行號` 也要在報告或這一回合的工具結果裡（`why_lead_refs`）。
@@ -1059,14 +1063,14 @@ session 決定）、`guard_in_skill`、`composite_*`（彙整 `composite_totals`
 **存檔**：交辦的結果在 `logs/tool_results/`（腳本欄 `domain_task`），領域 session 的工作在 `logs/domain_jobs/`，低階在 `logs/edg_jobs/`（第 8 節）。
 **常數**：`DOMAIN_*`（第 10 節）。
 **說法**：`prompts/harness/domain.md`（交辦的報告 `report`、要回答的項目 `answer_hint`、停在確認關卡 `ask_waiting`、回答之後 `answered`、取消 `cancelled`、
-擋 `tool_blocked` 與 `skill_blocked`、把領域的名稱當技能叫的 `domain_named`、交辦沒過核對的 `err_*`（原話不是使用者說過的話 `err_quote`）、answers 沒過核對的 `answers_fix`、`answers_problem`、`answers_lead`、`why_*`（漏了報告的編號與數字 `why_dropped`））；
-`system_prompt.md` 的 `tasks`、`task_domain`；`prompts/domain/session.md`（領域 session 看到的全部：system prompt、第一則訊息（項目是使用者的原話）、技能清單、參數表單（`form_*`、`reject_args_*`）、每一步的結果
-（程式算的彙整 `composite_totals`）、擋下與交回改的說明、回報沒過核對的 `answers_fix` 與 `why_ref_unknown`、`retry`、`cut`、`cleared`、提煉的錨點 `anchor`）；提煉的下一步建議
+擋 `tool_blocked` 與 `skill_blocked`、把領域的名稱當技能叫的 `domain_named`、交辦沒過核對的 `err_*`（原話不是使用者說過的話 `err_quote`、最新這一則的問句沒放進項目 `err_cover`）、answers 沒過核對的 `answers_fix`、`answers_problem`、`answers_lead`、`why_*`（漏了報告的編號與數字 `why_dropped`、回答的文字寫了存檔的 #編號 `why_archive_id`））；
+`system_prompt.md` 的 `tasks`、`task_domain`；`prompts/domain/session.md`（領域 session 看到的全部：system prompt、第一則訊息（項目是使用者的原話；前文 `context`、`context_archived`、`context_turn`）、技能清單、參數表單（`form_*`、`reject_args_*`）、每一步的結果
+（程式算的彙整 `composite_totals`）、擋下與交回改的說明、回報沒過核對的 `answers_fix` 與 `why_ref_unknown`、`retry`、`cut`、`cleared`、提煉的錨點 `anchor` 與使用者前面的話 `anchor_earlier`）；提煉的下一步建議
 `harness/followup.md` 的 `sub_*`、`tool_results.md` 的 `reduced_sub`。
 **評測的 worker**（`evals/domain_calls.py`；`chat/worker.py`、`ops/worker.py` 共用，真實專案評測借用後者）：領域 session 的確認關卡照情境的 guard 回答
 （`settle`：維運同意、主對話不同意，算進 guards）；交辦記一筆（`skill` 是 `domain_session`：子目標、項目、每一項的原話、選過的領域、領域 session 的狀態、工作編號、
 步數、輪數、交辦的結果 `#編號`），領域 session 的每一步各一筆（`via` 是 `domain_session`；有骨架的技能附參數的值），有骨架的技能裡執行的工具再各一筆
 （`via` 是那個技能）——情境的「用了哪個工具」條件不用改；交辦沒過核對時只有交辦那一筆（ERROR）；依報告回答的那一步記 answers 與沒過核對的項目
 （`record_answers`），最後的回覆換成程式排好的那一份（`finalize`）。
-**測試**：`evals/domain/selftest.py`（23 項，第 12 節）；真模型看 `evals/repo/run.py`（`phase_check --model` 每個模型各跑 3 次）、`chat/`、`ops/`
+**測試**：`evals/domain/selftest.py`（28 項，第 12 節）；真模型看 `evals/repo/run.py`（`phase_check --model` 每個模型各跑 3 次）、`chat/`、`ops/`
 （凍結的領域：`--tools --model`）。

diff --git a/docs/框架討論紀錄.md b/docs/框架討論紀錄.md
@@ -58,6 +58,7 @@
 | 2026-11-25 | 第 28 輪（討論中） | 使用者 commit 了第 27 輪（ecfc45a）；使用者的想法：根本的問題在主對話——交辦時不能只看使用者最新的那一句，原話留著，前面幾次的對話要對著最新的原話做摘要（回想提煉、工具提煉的錨點本來就有前幾句使用者的話與模型自己的描述），交辦時說明清楚。對照程式與第 27 輪的紀錄：交辦是整條路上唯一把前面的對話丟掉的地方；領域 session 的說明還把最新這一則標成「只用來對照名稱、路徑、數值」（第 27 輪漏改）。建議（R1c）交辦帶前文（第 4 節〈交辦帶前文〉），等使用者決定 |
 | 2026-11-26 | 第 28 輪（定案） | 使用者 commit 了第 27 輪（ecfc45a）與第 28 輪的討論（e4b9435）；「依你建議，可以開始執行了」：（R1c）交辦帶前文——問句都要放進項目、程式附前文（任務線上前面的使用者的話與當時的回覆；短的照原文、長的照最新的原話提煉）、領域 session 照前後文與前文讀項目；先加 3 個多輪情境、用現在的版本跑基準（做法與開跑前寫好的比較規則在第 2 節） |
 | 2026-11-26 | 交辦帶前文的比較跑完 | 離線全過（交辦與領域 session 的自我測試 28 項，改之前的程式 25／28）；26b 規則都成立（簡單 40、複雜 23、規則 2 候選 2 題）；e4b 簡單 27（門檻 30）不成立、規則 2（候選 1 題）成立；全部 26b 63、e4b 38（`u` 64、41）。問句的核對 26b 交回 14 次，第一次交辦就涵蓋每一個問句 55 → 70／72，cross_imu 1 → 3／3；前文在主對話第二輪的交辦都附了（照原文、沒有提煉），新的多輪情境沒有差（沒過的在交辦之前：主 session 反問使用者）。e4b 掉的查了：逐段追的類別跟 `u` 一樣，同一段對話只換說明重播（各 4 次）e4b 35 對 36／60、26b 44 對 39／60——不是這一項。主對話 L：26b 10／11、e4b 28／33（跟 K 一樣）。基準不更新；數字在設計筆記 2.76、2.59，選項在第 4 節〈交辦帶前文的比較〉，等使用者決定 |
+| 2026-11-26 | 第 29 輪：cpp_symbol 量過 | 使用者 commit 了第 28 輪（a4da4d4）；「依你建議繼續」：（K）留著（R1c），基準不更新；架構說明（26 處）、doc/README 的圖說明與 4 張圖（〈從問題到答案的流程〉〈狀態轉移〉〈說明〉〈prompts 與流程的對應〉）照第 27、28 輪更新。cpp_symbol 分開宣告與定義先量（不花模型、不改程式）：e4b 簡單題 `t` → `v` 少的 6 題裡 C++ 5 題（C++ 8 → 3／15）；`r`～`v` e4b C++ 沒過的題次裡，要的那一行在搜尋的結果裡、被清單截掉的 13 個（cpp_laserscan_pub 11 次沒過裡 9 次）；照紀錄模擬「列有本體的定義」，cpp_laserscan_pub 的 26 次 cpp_symbol 裡 24 次列出要的那一行。選項與開跑前的規則草案在第 4 節〈cpp_symbol 分開宣告與定義（第 29 輪）〉，等使用者決定 |
 
 ## 1. 方向（2026-11-23 使用者決定）
 
@@ -510,7 +511,7 @@
 | 1 文件 | 刪 `docs/` 的 HTML 與舊的討論紀錄、設計筆記 2.55 的教訓、這份紀錄、CLAUDE.md 的方向 | 做好（2026-11-23） |
 | 2 實作 | 領域 session 的迴圈、骨架拿掉判斷節點、接上主 session、刪掉用不到的程式；完整的離線測試全過；文件照程式改 | 做好（2026-11-23，設計筆記 2.56） |
 | 3 跟 A 比 | 真實專案評測每個模型跑 3 次，跟 A（`pa1～pa3`、`r4m1～r4m3`）比；規則開跑前寫好給使用者確認 | 跑完（2026-11-23，設計筆記 2.57）：26b 規則 1 成立、規則 2 不成立；e4b 規則 1 不成立。三項建議照順序做（第 3 輪）：建議 1 做好（離線，設計筆記 2.58；commit 18ded9c），再比一次（`f1～f3`，規則在第 2 節〈第 4 輪〉）：e4b 都成立、26b 簡單成立，26b 複雜與規則 2 不成立（設計筆記 2.58）。第 5 輪：A（建議 2＋工具表單的寫法）做好、比較完（`g1～g3`，設計筆記 2.60）：26b 規則都成立、e4b 簡單 27（門檻 30）不成立（原因不是 A），基準不更新；B（交辦附原話、回答的完整性）定了（第 6 輪）、做好、比較完（`h1～h3`，設計筆記 2.61）：26b 簡單成立、複雜與規則 2 不成立，e4b 不成立，原因不是 B 的核對；基準不更新，接下來的建議在第 4 節〈B 的比較〉 |
-| 4 提煉的改進 | 太長再提煉（現在最多讀 8 段、其他寫「未涵蓋」）、程式碼照 AST 切段（Python 的 ast、C/C++ 照 code_defs 認定義的方式）；一項一項做、一項一項量 | 第 8 輪：先做 ③（整合刪掉 worker 核對過的事實：程式列出全部事實、整合只寫回答；做法在第 2 節），之後 cpp_symbol 的宣告與定義、AST 切段、太長再提煉。③ 做好、比較完（`i1～i3`，設計筆記 2.62）：26b 簡單 42、規則 2 成立，複雜 18 不成立；e4b 簡單 28 不成立；基準不更新，建議在第 4 節〈③ 的比較〉。第 9 輪：③ 留著；參數的兩個小項做好、比較完（`j1～j3`，設計筆記 2.63）：26b 規則都成立（複雜 24）；e4b 簡單 29 不成立；基準不更新，建議在第 4 節〈參數的兩個小項的比較〉。第 10 輪：兩個小項留著，選技能整理好（第 4 節〈選技能、e4b 在主對話把領域名稱當技能〉）。第 11 輪：選技能的 A1＋A2＋B 做好、比較完（`k1～k3`，設計筆記 2.64）：26b 規則都成立（全部 64／75）；e4b 簡單 26 與規則 2 不成立；基準不更新，建議在第 4 節〈A1＋A2＋B 的比較〉。第 12 輪：A1＋A2＋B 留著；一次寫完的提煉改成跟分段一樣（worker 摘、程式列事實、整合只寫回答；做法在第 2 節），做好、比較完（`l1～l3`，設計筆記 2.65）：26b 規則都成立；e4b 簡單 29 不成立；主對話評測 compare_two_archives 退了（好幾份短存檔一起 recall）；基準不更新，建議在第 4 節〈一次寫完的提煉的比較〉。第 13 輪：第 12 輪留著；好幾份加起來放得進一段時合成一段、一個 worker 一起讀（做法與比較的規則在第 2 節），做好、比較完（設計筆記 2.66）：先寫好的規則都成立；事後加的不分節清單 26b 的 worker 寫到輸出上限，建議在第 4 節〈好幾份一起讀的比較〉。第 14 輪：第 13 輪留著；合成一段要比較時 worker 只列有差異的（做法與比較的規則在第 2 節），做好、比較完（設計筆記 2.67）：規則都成立，compare_flat 26b 0 → 3／3；e4b 分節的清單兩次只列了一個方向；建議在第 4 節〈合成一段只列有差異的比較〉。第 15 輪：第 14 輪留著；程式整理好的清單放得進一段時直接給原文（做法與比較的規則在第 2 節），做好、比較完（`m1～m3`，設計筆記 2.68）：26b 規則都成立；e4b 簡單 27 與規則 2 不成立；基準不更新，建議在第 4 節〈程式整理好的清單直接給原文的比較〉。第 16 輪：第 15 輪留著；C、D 重新量（C 的問題幾乎沒有了、D 照原設計補不到）。第 17 輪：C 先不做、D 照原設計不做；參數表單的核對改成值對得上原文的不要擋（做法與比較的規則在第 2 節），做好、比較完（`n1～n3`，設計筆記 2.69）：26b 規則都成立（67／75）；e4b 簡單 29 不成立；基準不更新，建議在第 4 節〈參數表單的核對的比較〉。第 18 輪：第 17 輪留著；先修副作用（預設值配寫著別的名稱的 quote 照以前交回；做法與比較的規則在第 2 節），做好、比較完（`o1～o3`，設計筆記 2.70）：26b 規則都成立；e4b 簡單 28 不成立（這一項沒有碰到簡單題）；基準不更新，建議在第 4 節〈預設值配寫著別的名稱的 quote 的比較〉。第 19 輪：第 18 輪留著；還擋著的三類量過（第 4 節〈還擋著的三類〉）。第 20 輪：先做（a）原文沒有的搜尋字與檔名寫法範圍裡有才收，工具 args 的「[]」一起做（做法與比較的規則在第 2 節），做好、比較完（`p1～p3`，設計筆記 2.71）：26b 規則都成立；e4b 簡單 29 不成立（收下的檔名寫法縮錯範圍）；基準不更新，建議在第 4 節〈原文沒有的搜尋字與檔名寫法的比較〉。第 21 輪：搜尋的字照範圍收的留著，檔名寫法拿出這一項（做法與比較的規則在第 2 節），做好、比較完（`q1～q3`，設計筆記 2.72）：26b 規則都成立；e4b 簡單 30 成立、規則 2 不成立（候選 4 題都不是這一項）；基準不更新，建議在第 4 節〈檔名寫法拿出範圍的規則的比較〉。第 22 輪：第 21 輪留著；報告漏了的事實漏在哪一段量過（第 4 節〈報告漏了的事實漏在哪一段〉）。第 23 輪：（E）提煉的核對照收據認行號與檔名（做法與比較的規則在第 2 節），做好、比較完（`r1～r3`，設計筆記 2.73）：兩個模型的規則都成立（26b 67／75、e4b 42／75 到目前最高）；基準不更新。第 24 輪：第 23 輪留著；（b'）doc 照原文的「<上層> 的 <名稱>」找那一份文件（做法與比較的規則在第 2 節），做好、比較完（`t1～t3`，設計筆記 2.74）：兩個模型的規則都成立（26b 66／75、複雜 26；e4b 44／75，單一迴圈到目前最高）；基準不更新。第 25 輪：（a'）量過、不做。第 26 輪：寫報告這一段量過。第 27 輪：（R1）交辦照原話＋（R2）回答的文字不寫存檔的 #編號（做法與比較的規則在第 2 節），做好、比較完（`u1～u3`，設計筆記 2.75）：26b 規則 2 不成立（候選 3 題的原因都在框架、都跟（R1）有關），e4b 規則都成立（簡單 30）；基準不更新，選項在第 4 節〈交辦照原話的比較〉。第 28 輪：（R1c）交辦帶前文（做法與比較的規則在第 2 節），做好、比較完（`v1～v3`，設計筆記 2.76）：26b 規則都成立，e4b 簡單 27（門檻 30）不成立——查證都指向不是這一項；基準不更新，選項在第 4 節〈交辦帶前文的比較〉 |
+| 4 提煉的改進 | 太長再提煉（現在最多讀 8 段、其他寫「未涵蓋」）、程式碼照 AST 切段（Python 的 ast、C/C++ 照 code_defs 認定義的方式）；一項一項做、一項一項量 | 第 8 輪：先做 ③（整合刪掉 worker 核對過的事實：程式列出全部事實、整合只寫回答；做法在第 2 節），之後 cpp_symbol 的宣告與定義、AST 切段、太長再提煉。③ 做好、比較完（`i1～i3`，設計筆記 2.62）：26b 簡單 42、規則 2 成立，複雜 18 不成立；e4b 簡單 28 不成立；基準不更新，建議在第 4 節〈③ 的比較〉。第 9 輪：③ 留著；參數的兩個小項做好、比較完（`j1～j3`，設計筆記 2.63）：26b 規則都成立（複雜 24）；e4b 簡單 29 不成立；基準不更新，建議在第 4 節〈參數的兩個小項的比較〉。第 10 輪：兩個小項留著，選技能整理好（第 4 節〈選技能、e4b 在主對話把領域名稱當技能〉）。第 11 輪：選技能的 A1＋A2＋B 做好、比較完（`k1～k3`，設計筆記 2.64）：26b 規則都成立（全部 64／75）；e4b 簡單 26 與規則 2 不成立；基準不更新，建議在第 4 節〈A1＋A2＋B 的比較〉。第 12 輪：A1＋A2＋B 留著；一次寫完的提煉改成跟分段一樣（worker 摘、程式列事實、整合只寫回答；做法在第 2 節），做好、比較完（`l1～l3`，設計筆記 2.65）：26b 規則都成立；e4b 簡單 29 不成立；主對話評測 compare_two_archives 退了（好幾份短存檔一起 recall）；基準不更新，建議在第 4 節〈一次寫完的提煉的比較〉。第 13 輪：第 12 輪留著；好幾份加起來放得進一段時合成一段、一個 worker 一起讀（做法與比較的規則在第 2 節），做好、比較完（設計筆記 2.66）：先寫好的規則都成立；事後加的不分節清單 26b 的 worker 寫到輸出上限，建議在第 4 節〈好幾份一起讀的比較〉。第 14 輪：第 13 輪留著；合成一段要比較時 worker 只列有差異的（做法與比較的規則在第 2 節），做好、比較完（設計筆記 2.67）：規則都成立，compare_flat 26b 0 → 3／3；e4b 分節的清單兩次只列了一個方向；建議在第 4 節〈合成一段只列有差異的比較〉。第 15 輪：第 14 輪留著；程式整理好的清單放得進一段時直接給原文（做法與比較的規則在第 2 節），做好、比較完（`m1～m3`，設計筆記 2.68）：26b 規則都成立；e4b 簡單 27 與規則 2 不成立；基準不更新，建議在第 4 節〈程式整理好的清單直接給原文的比較〉。第 16 輪：第 15 輪留著；C、D 重新量（C 的問題幾乎沒有了、D 照原設計補不到）。第 17 輪：C 先不做、D 照原設計不做；參數表單的核對改成值對得上原文的不要擋（做法與比較的規則在第 2 節），做好、比較完（`n1～n3`，設計筆記 2.69）：26b 規則都成立（67／75）；e4b 簡單 29 不成立；基準不更新，建議在第 4 節〈參數表單的核對的比較〉。第 18 輪：第 17 輪留著；先修副作用（預設值配寫著別的名稱的 quote 照以前交回；做法與比較的規則在第 2 節），做好、比較完（`o1～o3`，設計筆記 2.70）：26b 規則都成立；e4b 簡單 28 不成立（這一項沒有碰到簡單題）；基準不更新，建議在第 4 節〈預設值配寫著別的名稱的 quote 的比較〉。第 19 輪：第 18 輪留著；還擋著的三類量過（第 4 節〈還擋著的三類〉）。第 20 輪：先做（a）原文沒有的搜尋字與檔名寫法範圍裡有才收，工具 args 的「[]」一起做（做法與比較的規則在第 2 節），做好、比較完（`p1～p3`，設計筆記 2.71）：26b 規則都成立；e4b 簡單 29 不成立（收下的檔名寫法縮錯範圍）；基準不更新，建議在第 4 節〈原文沒有的搜尋字與檔名寫法的比較〉。第 21 輪：搜尋的字照範圍收的留著，檔名寫法拿出這一項（做法與比較的規則在第 2 節），做好、比較完（`q1～q3`，設計筆記 2.72）：26b 規則都成立；e4b 簡單 30 成立、規則 2 不成立（候選 4 題都不是這一項）；基準不更新，建議在第 4 節〈檔名寫法拿出範圍的規則的比較〉。第 22 輪：第 21 輪留著；報告漏了的事實漏在哪一段量過（第 4 節〈報告漏了的事實漏在哪一段〉）。第 23 輪：（E）提煉的核對照收據認行號與檔名（做法與比較的規則在第 2 節），做好、比較完（`r1～r3`，設計筆記 2.73）：兩個模型的規則都成立（26b 67／75、e4b 42／75 到目前最高）；基準不更新。第 24 輪：第 23 輪留著；（b'）doc 照原文的「<上層> 的 <名稱>」找那一份文件（做法與比較的規則在第 2 節），做好、比較完（`t1～t3`，設計筆記 2.74）：兩個模型的規則都成立（26b 66／75、複雜 26；e4b 44／75，單一迴圈到目前最高）；基準不更新。第 25 輪：（a'）量過、不做。第 26 輪：寫報告這一段量過。第 27 輪：（R1）交辦照原話＋（R2）回答的文字不寫存檔的 #編號（做法與比較的規則在第 2 節），做好、比較完（`u1～u3`，設計筆記 2.75）：26b 規則 2 不成立（候選 3 題的原因都在框架、都跟（R1）有關），e4b 規則都成立（簡單 30）；基準不更新，選項在第 4 節〈交辦照原話的比較〉。第 28 輪：（R1c）交辦帶前文（做法與比較的規則在第 2 節），做好、比較完（`v1～v3`，設計筆記 2.76）：26b 規則都成立，e4b 簡單 27（門檻 30）不成立——查證都指向不是這一項；基準不更新，選項在第 4 節〈交辦帶前文的比較〉。第 29 輪：（K）留著；cpp_symbol 分開宣告與定義先量過（不花模型、不改程式），選項與規則草案在第 4 節〈cpp_symbol 分開宣告與定義（第 29 輪）〉 |
 
 **第 2 步的做法**（照 F1～F6 實作時定的細節；設計筆記 2.56、架構說明第 15～17 節）：
 - 程式：`agent_core/domain_session.py`（領域 session 的迴圈）、`composite.py`（有骨架的技能：從中階留下規格、合約的核對、骨架、回退）、
@@ -536,6 +537,59 @@
 - 測試：`evals/domain/selftest.py` 15 項（「參數寫錯欄位」那一項換成「參數表單」）。
 
 ## 4. 待討論
+
+**cpp_symbol 分開宣告與定義（2026-11-26 第 29 輪；量過，不花模型、不改程式；選項與開跑前的規則草案，等使用者決定）**：
+- 為什麼是這一項：e4b 簡單題 `t` → `u` → `v` 33 → 30 → 27，少的 6 題裡 C++ 5 題（C++ 5 題 × 3 批：`r` 8、`t` 8、`u` 4、`v` 3／15；Python 15、14、15、15，
+  文件 9、11、11、9）；cpp_laserscan_pub 從 `p` 起每一批都是 e4b 規則 2 的候選。計畫裡排在下一項的就是這一項。
+- 逐段追（第 22 輪的方法）＋看搜尋的清單有沒有截掉（`r`～`v` 兩個模型的 C++ 題，保留組不看；「截掉」＝要的那一行在某一次搜尋的範圍裡、符合搜尋的字，
+  但那個檔案的清單只列了前幾筆、那一行不在裡面）：
+
+| 題目 | e4b 沒過（`r`～`v` 12 批） | e4b 卡在哪裡 | 26b 沒過 |
+|---|---|---|---|
+| cpp_laserscan_pub | 11 | 定義那一行被搜尋的清單截掉 9（那份 .cpp 提到類別名稱 46 處、提到 LaserScan 89 處，每個檔案只列前 10 筆，第 552 行不在裡面）；沒搜到 2 | 3：截掉 1、函式答對但行號寫成 259 兩次 |
+| cpp_rf2o_params | 10 | 沒搜到 8（名稱寫節點的名稱、讀 launch 檔的值）；搜「parameter」被截掉 2 | 0 |
+| cpp_sick_ports | 9 | SOPAS、IMU 那一行沒搜到 5（搜「UDP port」「SOPAS port」這種片語，對不上 `sopas_tcp_port`）；截掉 1；只差沒寫 config.cpp 3 | 1（沒寫 config.cpp） |
+| cpp_laser_qos | 6（`u`、`v`） | 上下文有、報告的行號不對 4（`v` 兩次寫第 55 行：Odometry 的訂閱，雷射是第 49 行，QoS 一樣）；沒搜到、被總共 50 筆截掉各 1 | 0 |
+| cpp_sick_services | 1 | 上下文有、報告沒寫 .cpp 1 | 0 |
+
+  - 截掉的 e4b 共 13 個題次、26b 1 個：26b 會把範圍縮到那一份檔案再搜（只有一個檔案時列 50 筆），e4b 不縮、照前 10 筆回報（建構函式、標頭檔的宣告）。
+  - 12 批裡 e4b cpp_laserscan_pub 唯一過的 `t3`：cpp_symbol 的名稱寫了類別名稱與 LaserScan，排序把兩個都有的第 552 行排在最前面——看得到定義就答對。
+  - e4b cpp_laserscan_pub 12 批都先選 Python 的工具（py_refs、py_usage），多一兩步之後才用 cpp_symbol。
+- 現在的 cpp_symbol：一個節點（search_text：名稱、前後 2 行、同一行含最多個名稱的先列），宣告、定義、用到的地方、註解混在一份清單裡；〈策略與 SOP〉第 1 條寫了
+  「定義在哪要的是有函式本體的那一行」，但清單本身不分。code_defs（repo_analysis 的工具）已經會照定義的寫法認 C/C++ 有本體的類別與函式（`類別::方法`、行號範圍，
+  `;` 結尾的宣告不列），但它的 `--name` 只比對名稱的最後一段，用類別名稱篩列不出成員。
+- 做法（D1，草案）：
+  1. code_defs 多一個篩選：只列名稱或所屬的那一層（`類別::方法`、`類別.方法` 的最後兩段）有這些字的定義（不分大小寫，`a|b` 是任一個——跟搜尋的字一樣）。
+     比對整個全名時命名空間也算進去（「sick_scan」在 amr_base_hw 106 個），只比對最後兩段 6 個。
+  2. cpp_symbol 的骨架在搜尋之前多一個節點：同一個範圍的 C++ 檔，用 code_defs 列有本體的定義（類別、函式、成員函式，附行號範圍）。結果分成兩份：有本體的定義，
+     與提到這些名稱的行（標頭檔的宣告與用到的地方，照舊）。
+  3. 技能的說明（description、〈策略與 SOP〉第 1 條）：「定義在哪」「哪個成員函式做某件事」照定義那一份（檔案與行號範圍），宣告與其他照提到的行。
+  4. 回退照舊（搜尋 0 筆才找範圍外）；定義 0 個不算失敗。
+  5. 測試：技能的自我測試（code_defs 的篩選：成員、命名空間的字不算、不分大小寫）、交辦與領域 session 的自我測試（cpp_symbol：臨時的小專案放一份 .h、一份 .cpp，
+     定義那一份列 .cpp 的那一行、不列標頭檔的宣告）、評測的完整性；〈複合技能_cpp_symbol〉圖與架構說明第 16 節照慣例先問再改。
+- 模擬（照 `r`～`v` 每一次 cpp_symbol 的名稱與範圍跑 code_defs 認定義的方式；範圍照執行時補的）：
+  - cpp_laserscan_pub：26 次（26b 16、e4b 10）裡 24 次列出 publishLaserScanMsg（行 552-577）——名稱寫了類別名稱、LaserScan 或那個函式的都有；沒有的 2 次是 e4b `r1`
+    範圍寫成三個檔案接在一起、只給標頭檔。e4b 沒過的 11 次裡 6 次（`v` 3 次都是）用了 cpp_symbol、會列出來。一份 1～32 個定義，最多約 1,900 字。
+  - cpp_sick_services：25 次都列出類別（.h）與 21 個定義。
+  - cpp_rf2o_params、cpp_laser_qos：名稱寫節點的名稱、QoS、create_subscription，0～8 個，碰不到。
+  - 寬的字：「scan、laser」在 sick_scan_xd 列 61 個（比對全名 136 個）——太長照舊提煉。
+- 碰不到的（先記在待辦）：搜尋的清單被截掉的一般問題（用到 search_text 的技能都會碰到）、e4b C++ 的找法（節點的名稱、launch 檔、片語）、報告寫了別的行號、
+  e4b 先選 Python 的工具。
+- 選項：
+  - （D1）做 cpp_symbol 分開宣告與定義（上面的做法），照下面的規則比一次。
+  - （D2）連搜尋的清單被截掉的一般做法一起做：還沒有設計（例如截掉時程式照收據縮到命中最多的那個檔案再列），碰到所有用 search_text 的技能，混在一起比不出
+    各自的效果。
+  - （D0）先不做，處理 e4b C++ 的找法：要改選技能與參數的說明（判斷），碰得到的題目不確定。
+- 開跑前的規則（草案）：
+  1. 離線全過；新的測試改之前的程式不過。
+  2. 重播（不花模型）：`r`～`v` 每一次 cpp_symbol 照新的骨架執行——搜尋那一份跟紀錄一字不差，多的只有定義那一份；cpp_laserscan_pub 上面那 24 次都列出第 552 行；
+     其他有骨架的技能與工具的結果不變。
+  3. 真實專案評測每個模型 3 次（`w1～w3`），照第 4 輪的規則：26b 複雜 ≥ 19／30、簡單 ≥ 34／45、規則 2（跟 A 比）；e4b 簡單 ≥ 30／45、規則 2 只看簡單；複雜只列出。
+  4. 只列出、跟 `v` 比：cpp_laserscan_pub、cpp_sick_services 兩個模型各過幾次；cpp_symbol 選了幾次、定義那一份的字數與有沒有提煉；每題的模型呼叫（GPU 沒有別的
+     工作時才比秒數）。
+  5. 主對話評測不跑：只改領域 session 用的技能，code_defs 不給主 session 直接用。
+- 建議：（D1）。碰得到的主要是 e4b cpp_laserscan_pub（`v` 3 次都會列出定義）與 26b 寫錯行號的那一類；e4b 簡單題 27 要到 30 還要靠別的題，這一項單獨不一定夠，
+  規則照第 4 輪不改。（D2）等 D1 比完、量過再談。
 
 **交辦帶前文的比較（2026-11-26 第 28 輪；真實專案 `v1～v3`、主對話 L；數字在設計筆記 2.76）**：
 
@@ -1675,3 +1729,11 @@
 - **結果**：26b 規則都成立；e4b 簡單 27（門檻 30）不成立、規則 2 成立。問句的核對解決了第 27 輪最多的那一類（26b cross_imu 1 → 3／3）；前文有附、新的多輪情境沒有差
   （沒過的在交辦之前：主 session 反問使用者）；說明的改動重播兩版一樣。基準不更新。
 - **接下來**：等使用者決定第 4 節〈交辦帶前文的比較〉的選項（建議（K）留著）；架構說明與圖照決定再問。
+
+### 2026-11-26 第 29 輪：（K）留著、cpp_symbol 量過
+- **使用者**：commit 了第 28 輪（a4da4d4）；「依你建議繼續，不過跟我白話說明一下目前主要的問題」。
+- **做的**：（K）留著（R1c），基準不更新。架構說明 26 處、doc/README 的圖說明 4 處與 4 張圖照第 27（R1、R2）、28 輪（R1c）更新，本機的 PlantUML 重新產生、打開看過
+  （〈從問題到答案的流程〉一行開頭的 `#編號` 被當成編號清單，換了斷行）；改完完整的離線測試（08:10）全過、`analysis_settings.json` 沒有變。白話說明目前的問題
+  （找不到該讀的那幾行、讀到了換了說法、交辦之前就出錯、量測看不太清楚）。cpp_symbol 分開宣告與定義先量：`r`～`v` 兩個模型的 C++ 題逐段追、看搜尋的清單
+  有沒有截掉；照紀錄裡每一次 cpp_symbol 的參數，用 code_defs 認定義的方式模擬列有本體的定義。程式沒有改。
+- **接下來**：等使用者決定第 4 節〈cpp_symbol 分開宣告與定義（第 29 輪）〉的選項（建議（D1））。

diff --git a/doc/README.md b/doc/README.md
@@ -20,9 +20,9 @@
 
 | 圖 | 來源 | 內容 |
 |---|---|---|
-| ![架構](images/AI_agent_harness的說明.png) | `diagrams/AI_agent_harness的說明.puml` | 元件與資料流；`vision/`（框選／上傳 → 結構化提取 → `[vision result]`）與使用者介面、SkillAgent、技能、偽技能（result_recall、analysis_run）、一次性 session（提煉、滾動摘要、視覺）、`logs/` 底下各種存檔（含收據 `<存檔>.receipt.json`、領域 session 的 `domain_jobs/` 與低階的 `edg_jobs/`）、確認關卡的範圍；交辦：主 session 把子目標與要回答的項目（每一項附使用者的原話）交給領域 session（`domain_session.py`）→ 程式核對 → 選領域、一次用一個技能（只寫名稱，下一輪填程式給的參數表單；有骨架的技能由 `composite.py` 照骨架與回退、`edg.py` 執行；工具走主 session 同一條路）、太長的結果分段提煉、決定回報或再選 → 報告 #編號交回、停在確認關卡時程式直接問使用者 |
-| ![一回合](images/AI_agent_harness的狀態轉移.png) | `diagrams/AI_agent_harness的狀態轉移.puml` | 一回合的狀態機；`/analyze` 直接指定；確認關卡擋哪些；Dispatch 的偽技能；交辦（5d：核對（含每一項的原話是使用者說過的話）、交給領域 session、再交辦時帶著上一次的經過、報告存成 #編號交回）、領域 session（5f：每一輪回一個狀態——選領域、用一個技能、回報；選了技能的下一輪填參數表單、有骨架的技能的合約與 need、太長的結果提煉、上限與擋重複、回報的核對）與領域 session 停在確認關卡（5e：程式轉問、接回同一步）；回覆寫到長度上限被截斷的重問（3）；回答前的核對（3c：沒動作卻說做了、依數據分析的報告回答、依交辦的報告回答的 answers（含報告的編號與數字沒漏），沒過的交回修一次；依交辦的報告回答由程式照項目排、附出處那一行的原文）；附圖時的視覺提取（1b），以及附圖分析在 prompt、壓縮、下一句話裡的位置 |
-| ![從問題到答案](images/從問題到答案的流程.png) | `diagrams/從問題到答案的流程.puml` | 單一迴圈的動態流程（2026-11-23，泳道的活動圖）：使用者 → 主 session 交辦（子目標、要回答的項目，每一項附使用者的原話）→ 程式核對交辦（原話是使用者說過的話）→ 領域 session 選領域（程式載入這些領域的技能清單）→ 每一輪用一個技能（只寫名稱，下一輪填程式給的參數表單）：有骨架的技能（每個參數一欄、附原文，程式核對、沒過的重填一次；`composite.py` 照〈骨架〉排圖、`edg.py` 執行工具節點、〈回退〉加節點或換技能，缺參數、要縮小範圍時 need 交回領域 session；程式照收據算的彙整存成 #編號）或工具（args 寫成 JSON、照抄佔位符的交回重填；確認關卡、存檔 #編號、收據）→ 太長的結果分段提煉（錨點是子目標與項目）→ 看了結果再用技能、再選領域或回報（answers，程式核對）→ 報告存成 #編號交回 → 主 session 照報告一項一項回答（或只帶沒答到的再交辦）→ 程式核對 answers（含報告的編號與數字沒漏）、照項目排好給使用者；會改狀態的工具停下來由程式問使用者；藍＝程式、橘＝模型、綠＝程式核對、黃＝回退、紅＝問使用者、紫＝存檔 |
+| ![架構](images/AI_agent_harness的說明.png) | `diagrams/AI_agent_harness的說明.puml` | 元件與資料流；`vision/`（框選／上傳 → 結構化提取 → `[vision result]`）與使用者介面、SkillAgent、技能、偽技能（result_recall、analysis_run）、一次性 session（提煉、滾動摘要、視覺）、`logs/` 底下各種存檔（含收據 `<存檔>.receipt.json`、領域 session 的 `domain_jobs/` 與低階的 `edg_jobs/`）、確認關卡的範圍；交辦：主 session 把子目標與要回答的項目（每一項是使用者的原話）連同前文交給領域 session（`domain_session.py`）→ 程式核對 → 選領域、一次用一個技能（只寫名稱，下一輪填程式給的參數表單；有骨架的技能由 `composite.py` 照骨架與回退、`edg.py` 執行；工具走主 session 同一條路）、太長的結果分段提煉、決定回報或再選 → 報告 #編號交回、停在確認關卡時程式直接問使用者 |
+| ![一回合](images/AI_agent_harness的狀態轉移.png) | `diagrams/AI_agent_harness的狀態轉移.puml` | 一回合的狀態機；`/analyze` 直接指定；確認關卡擋哪些；Dispatch 的偽技能；交辦（5d：核對（含每一項的原話是使用者說過的話、最新這一則的問句都放進了項目）、交給領域 session（附前文：這一則之前的對話）、再交辦時帶著上一次的經過、報告存成 #編號交回）、領域 session（5f：每一輪回一個狀態——選領域、用一個技能、回報；選了技能的下一輪填參數表單、有骨架的技能的合約與 need、太長的結果提煉、上限與擋重複、回報的核對）與領域 session 停在確認關卡（5e：程式轉問、接回同一步）；回覆寫到長度上限被截斷的重問（3）；回答前的核對（3c：沒動作卻說做了、依數據分析的報告回答、依交辦的報告回答的 answers（含報告的編號與數字沒漏），沒過的交回修一次；依交辦的報告回答由程式照項目排、附出處那一行的原文）；附圖時的視覺提取（1b），以及附圖分析在 prompt、壓縮、下一句話裡的位置 |
+| ![從問題到答案](images/從問題到答案的流程.png) | `diagrams/從問題到答案的流程.puml` | 單一迴圈的動態流程（2026-11-23，泳道的活動圖）：使用者 → 主 session 交辦（子目標、要回答的項目，每一項是使用者的原話）→ 程式核對交辦（原話是使用者說過的話、問句都放進了項目）→ 領域 session（附前文）選領域（程式載入這些領域的技能清單）→ 每一輪用一個技能（只寫名稱，下一輪填程式給的參數表單）：有骨架的技能（每個參數一欄、附原文，程式核對、沒過的重填一次；`composite.py` 照〈骨架〉排圖、`edg.py` 執行工具節點、〈回退〉加節點或換技能，缺參數、要縮小範圍時 need 交回領域 session；程式照收據算的彙整存成 #編號）或工具（args 寫成 JSON、照抄佔位符的交回重填；確認關卡、存檔 #編號、收據）→ 太長的結果分段提煉（錨點是子目標、項目與使用者前面的話）→ 看了結果再用技能、再選領域或回報（answers，程式核對）→ 報告存成 #編號交回 → 主 session 照報告一項一項回答（或只帶沒答到的再交辦）→ 程式核對 answers（含報告的編號與數字沒漏）、照項目排好給使用者；會改狀態的工具停下來由程式問使用者；藍＝程式、橘＝模型、綠＝程式核對、黃＝回退、紅＝問使用者、紫＝存檔 |
 | ![工具回傳管線](images/AI_agent_harness的工具回傳管線.png) | `diagrams/AI_agent_harness的工具回傳管線.puml` | 原文存檔（第一版領域的腳本另外寫收據給程式讀）→ 規格文件、提煉過的、程式整理好的報告（數據分析）直接給原文 → 太長的提煉（程式切段 → 每段一個 worker（程式核對）→ 程式列出核對過的事實、整合只寫回答，程式核對回答與行號；照收據對得到檔案的事實附 `檔案:行號`、回答把存檔的行號寫成檔案的行號交回修）→ 檢索清單 → result_recall（好幾份加起來放得進一段時合成一段、一個 worker 一起讀）；退路（`/summarize off`、提煉沒成功、重點不比原文短）；領域 session 的結果也走這一套（錨點換成交辦的子目標與項目，下一步建議只寫它能用的 result_grep／result_view）；中段是附圖的影像分析（提取 → 存成 #編號 → 〔附圖分析〕進清單 → 併進訊息），同一套 recall |
 | ![數據分析的流程](images/數據診斷的流程.png) | `diagrams/數據診斷的流程.puml` | 數據分析（事實報告）的完整流程（活動圖）：收到問題（交辦給領域 session 用 analysis_run，或 `/analyze` 直接指定）→ 資料預備與事實（超過 3 分鐘先切；字串裡的 JSON 展開成 Key；程式量全部 Topic 的全部 Key、整理成有編號的事實）→ 重點（程式照規則寫：每個重要的時間點一則）→ 報告（交辦時原樣附在領域 session 的報告裡）→ 主對話依報告回答與程式的核對（之後的回合也核對；要細看再交辦）；藍＝程式、橘＝模型、綠＝程式核對，底部是程式做的與模型做的；第九輪的流程圖在 `archive/root_cause_reference/doc/` |
 | ![prompts 與流程的對應](images/prompts與流程的對應.png) | `diagrams/prompts與流程的對應.puml` | 給模型的字都在 `prompts/`：主對話（AGENT.md、context_modes/、Memory.md、harness/，含 `system_prompt.md` 的「交辦」一節、交辦的結果與 answers 沒有通過核對的說明 `domain.md`）與各種獨立 session（summary/、extract/、vision/、低階執行器的第 1 級修正 edg/、領域 session `domain/session.md`；領域 session 的提煉與截斷說明 `followup.md` 的 `sub_*`、`reduced_sub`）各用哪些檔案，誰組 prompt、輸出的 schema（主對話的回覆在有交辦的報告時多 answers、action 一律最後；領域 session 每一輪一個 state：domains／skill／report，選了技能的下一輪填那個技能的參數表單）；`skills_system/` 的 SKILLS.md（拿掉領域的工具）、`DOMAIN.md`（給程式讀）、技能規格、領域與有骨架的技能（領域的說明也組進主對話的「交辦」一節；說明、〈什麼時候用〉、參數給領域 session，〈骨架〉〈回退〉給程式）也是模型會讀的；留在程式裡的只有程式的輸出（工具結果、報告、[ERROR]）與程式認的標記；各 session 用哪個模型 |
